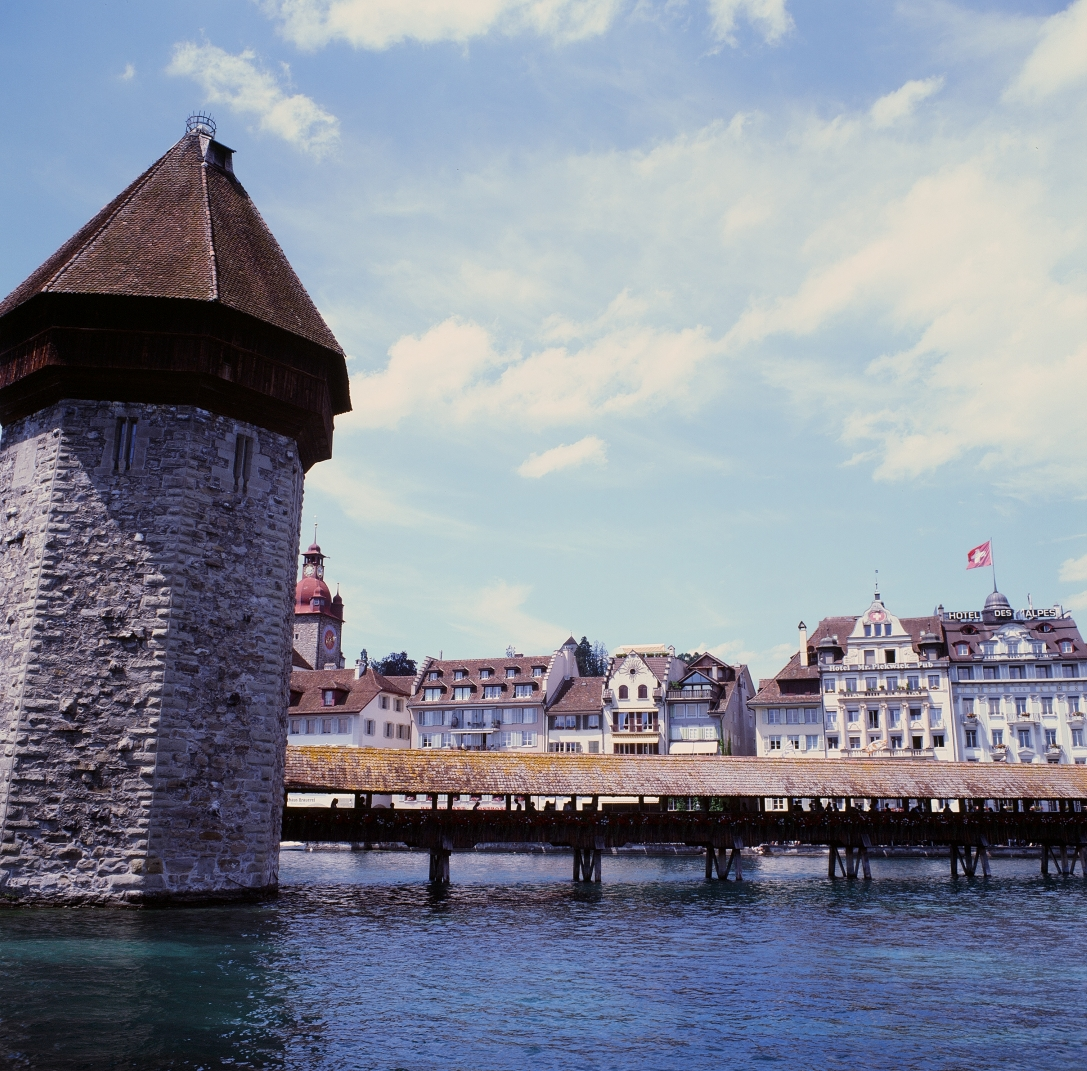
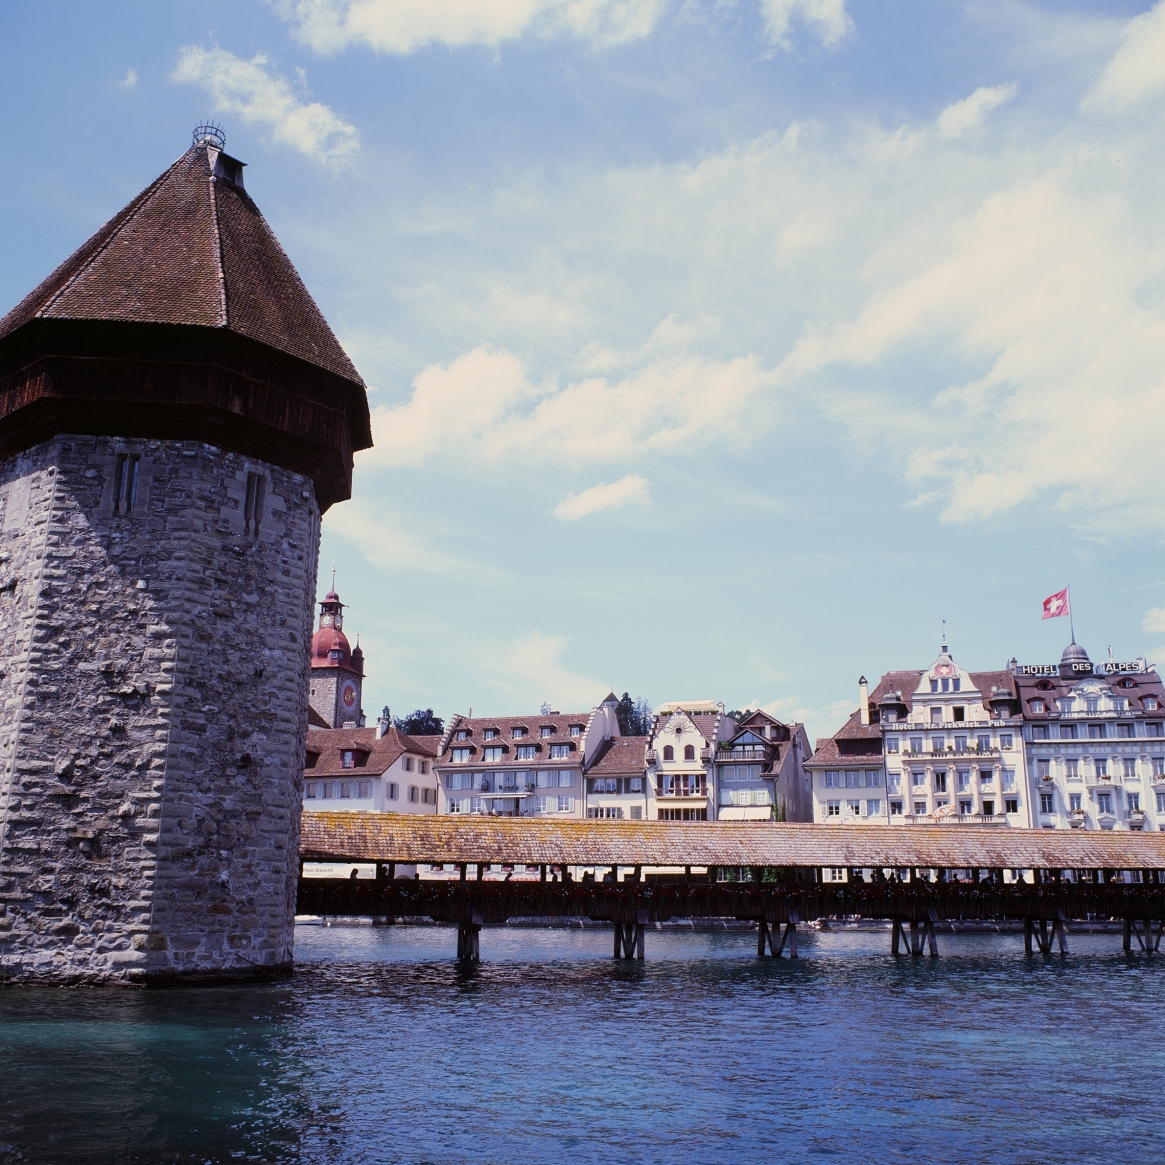
Update

Changed region(s): [[0.0, 0.0924, 1.0, 1.0], [0.9715, 0.0, 1.0, 0.0308], [0.0, 0.986, 0.0304, 1.0]]

diff --git a/photography.html b/photography.html
@@ -148,29 +148,55 @@ These photographs were taken with a Mamiya C330. Colour photos are Kodak Ektachr
 <h3>Switzerland</h3>
 
 <div style="border: none !important; overflow-y: hidden; width: 1000px; margin:0 auto;">
+  <a href="media/photography/switzerland/switzerland0_highres.jpg" target="_blank">
     <span style="float:left;width:25%;height:20em;margin-top:0em;margin-bottom:0em;margin-left:1em;margin-right:0em"><img src="media/photography/switzerland/switzerland0.jpg" style="max-width:100%;max-height:100%"/></span>
+  </a>
+  <a href="media/photography/switzerland/switzerland1_highres.jpg" target="_blank">
     <span style="float:left;width:25%;height:20em;margin-top:0em;margin-bottom:0em;margin-left:1em;margin-right:0em"><img src="media/photography/switzerland/switzerland1.jpg" style="max-width:100%;max-height:100%"/></span>
+  </a>
+  <a href="media/photography/switzerland/switzerland2_highres.jpg" target="_blank">
     <span style="float:left;width:25%;height:20em;margin-top:0em;margin-bottom:0em;margin-left:1em;margin-right:0em"><img src="media/photography/switzerland/switzerland2.jpg" style="max-width:100%;max-height:100%"/></span>
+  </a>
+  <a href="media/photography/switzerland/switzerland3_highres.jpg" target="_blank">
     <span style="float:left;width:25%;height:20em;margin-top:0em;margin-bottom:0em;margin-left:1em;margin-right:0em"><img src="media/photography/switzerland/switzerland3.jpg" style="max-width:100%;max-height:100%"/></span>
+  </a>
+  <a href="media/photography/switzerland/switzerland4_highres.jpg" target="_blank">
     <span style="float:left;width:25%;height:20em;margin-top:0em;margin-bottom:0em;margin-left:1em;margin-right:0em"><img src="media/photography/switzerland/switzerland4.jpg" style="max-width:100%;max-height:100%"/></span>
+  </a>
+  <a href="media/photography/switzerland/switzerland5_highres.jpg" target="_blank">
     <span style="float:left;width:25%;height:20em;margin-top:0em;margin-bottom:0em;margin-left:1em;margin-right:0em"><img src="media/photography/switzerland/switzerland5.jpg" style="max-width:100%;max-height:100%"/></span>
+  </a>
+  <a href="media/photography/switzerland/switzerland6_highres.jpg" target="_blank">
     <span style="float:left;width:25%;height:20em;margin-top:0em;margin-bottom:0em;margin-left:1em;margin-right:0em"><img src="media/photography/switzerland/switzerland6.jpg" style="max-width:100%;max-height:100%"/></span>
+  </a>
 </div>
 
 <h3>Valle Argentina, Italy</h3>
 
 <div style="border: none !important; overflow-y: hidden; width: 1000px; margin:0 auto;">
+  <a href="media/photography/valle_argentina/valle_argentina0_highres.jpg" target="_blank">
     <span style="float:left;width:25%;height:20em;margin-top:0em;margin-bottom:0em;margin-left:1em;margin-right:0em"><img src="media/photography/valle_argentina/valle_argentina0.jpg" style="max-width:100%;max-height:100%"/></span>
+  </a>
+  <a href="media/photography/valle_argentina/valle_argentina1_highres.jpg" target="_blank">
     <span style="float:left;width:25%;height:20em;margin-top:0em;margin-bottom:0em;margin-left:1em;margin-right:0em"><img src="media/photography/valle_argentina/valle_argentina1.jpg" style="max-width:100%;max-height:100%"/></span>
+  </a>
+  <a href="media/photography/valle_argentina/valle_argentina2_highres.jpg" target="_blank">
     <span style="float:left;width:25%;height:20em;margin-top:0em;margin-bottom:0em;margin-left:1em;margin-right:0em"><img src="media/photography/valle_argentina/valle_argentina2.jpg" style="max-width:100%;max-height:100%"/></span>
+  </a>
 </div>
 
 <h3>Greece</h3>
 
 <div style="border: none !important; overflow-y: hidden; width: 1000px; margin:0 auto;">
+  <a href="media/photography/greece/greece0_highres.jpg" target="_blank">
     <span style="float:left;width:24.3%;height:20em;margin-top:0em;margin-bottom:0em;margin-left:1em;margin-right:0em"><img src="media/photography/greece/greece0.jpg" style="max-width:100%;max-height:100%"/></span>
+  </a>
+  <a href="media/photography/greece/greece1_highres.jpg" target="_blank">
     <span style="float:left;width:25%;height:20em;margin-top:0em;margin-bottom:0em;margin-left:1em;margin-right:0em"><img src="media/photography/greece/greece1.jpg" style="max-width:100%;max-height:100%"/></span>
+  </a>
+  <a href="media/photography/greece/greece2_highres.jpg" target="_blank">
     <span style="float:left;width:25%;height:20em;margin-top:0em;margin-bottom:0em;margin-left:1em;margin-right:0em"><img src="media/photography/greece/greece2.jpg" style="max-width:100%;max-height:100%"/></span>
+  </a>
 </div>
 
 <h3><a href="photography/iceland.html">Iceland</a></h3>
